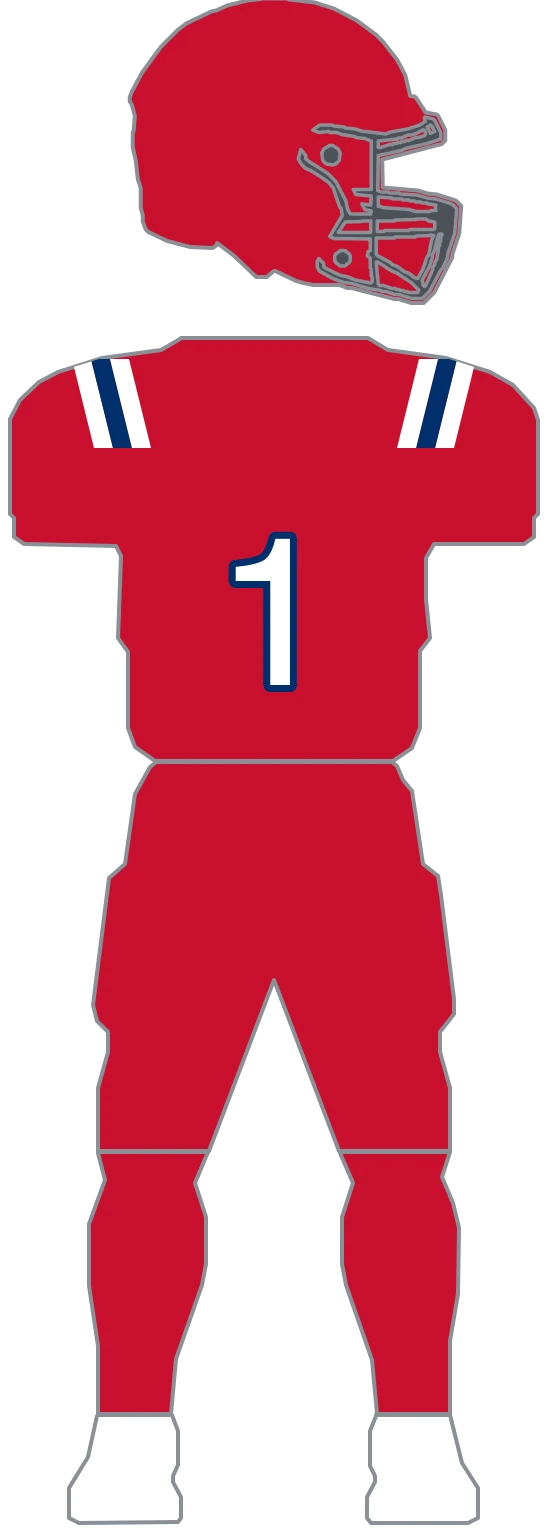
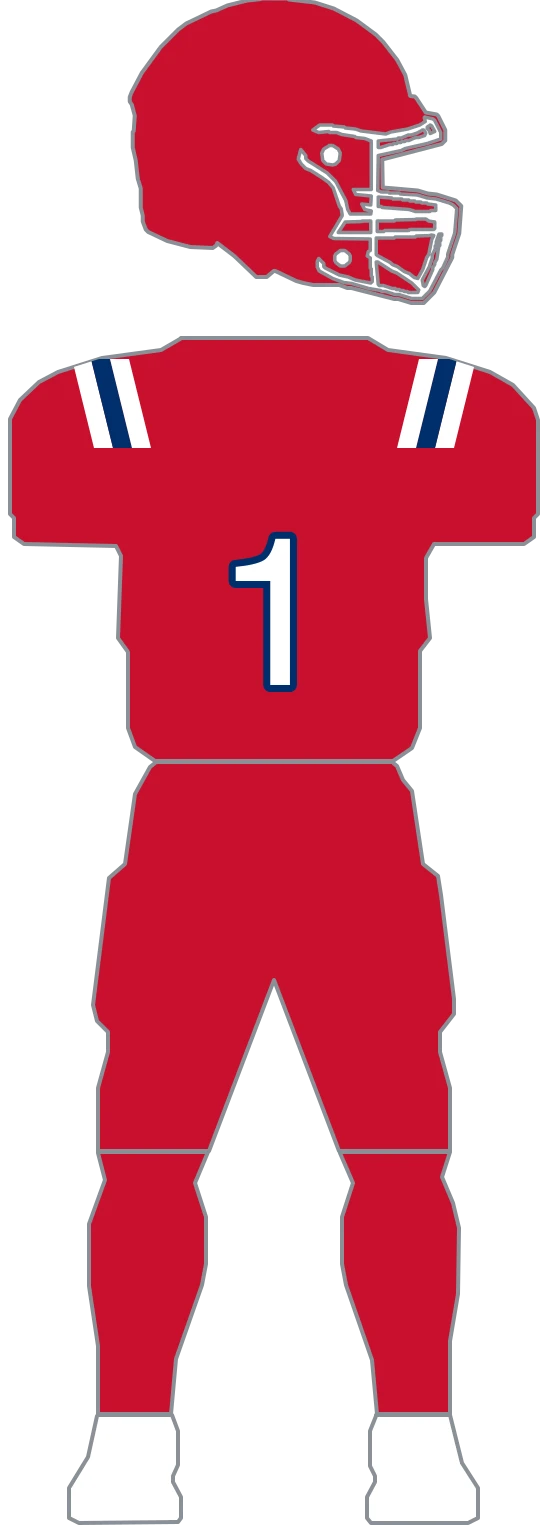
feat(uniforms): migrate Patriots to composable parts and set its facemasks (#707)
One construction throughout: three parallel bands running diagonally down each
shoulder cap, outer/inner/outer, and nothing else. Parts factor to 4 helmets /
4 jerseys / 4 pants, matching the measured target.

New England is the one team in the epic where the parts model buys no
deduplication at all, and that is the honest answer rather than a failure to
look: the band colors are not a token swap (navy body wears red/white/red,
white body red/navy/red, red body white/navy/white), the four kits carry four
different body colors, and two different navies are in play — #002244 on
home/away, #002F6C on Rivalries and Pat Patriot. What the migration does buy
is the palette: those two navies and two reds (#C60C30, #C8102E) are now named
and impossible to confuse, where the flat form left them scattered across
primary/secondary/accent.

The migration's parity gate proved all 8 patriots rasters (4 kits x 2
variants) byte-identical against the flat definition, then the flat definition
and its builder helpers were deleted and the team removed from MIGRATED, per
the one-time-proof lifecycle (depth#660).

Facemask follows the parts migration per phase order. Every silver-shell
figure on the GUD 2025 composite wears the club's signature red cage, and the
Pat Patriot shell a white one. The sheet is a GIF whose cage quantizes to
#e30003, palette noise rather than a documented color, so the red comes from
the archive's own stored club red (#C60C30). Rivalries has no figure of its
[…]

Changed region(s): [[0.5768, 0.0612, 0.8196, 0.1837], [0.5464, 0.0919, 0.6071, 0.1225], [0.7286, 0.1837, 0.7589, 0.2143]]

diff --git a/lib/uniforms/teams/patriots.parts.ts b/lib/uniforms/teams/patriots.parts.ts
@@ -1,0 +1,163 @@
+// New England authored as composable parts. Geometry is imported unchanged from patriots.ts —
+// this file only restates WHICH parts each kit combines, and names every color from the team
+// palette instead of the kit row's shifting primary/secondary/accent.
+//
+// One construction throughout: three parallel bands running diagonally down each shoulder cap,
+// outer/inner/outer, and nothing else. No collar trim, no helmet stripe, no pant stripe.
+//
+// The measured target is 4 helmet / 4 jersey / 4 pants — every kit its own parts, nothing shared,
+// and that is what this factors to. New England is the one team in the epic where the parts model
+// buys no deduplication at all, and that is the honest answer rather than a failure to look: the
+// band colors are not a token swap (navy body wears red/white/red, white body red/navy/red, red
+// body white/navy/white), the four kits carry four different body colors, and two different navies
+// are in play — #002244 on home/away and #002F6C on Rivalries and Pat Patriot. What the migration
+// does buy here is the palette: those two navies and two reds (#C60C30, #C8102E) are now named and
+// impossible to confuse, where the flat form left them scattered across primary/secondary/accent.
+//
+// Pat Patriot carries NO helmet mark — that era wore a different logo, which no figure on the
+// sheet draws.
+
+import {
+  PATRIOTS_BANDS_LEFT,
+  PATRIOTS_BANDS_RIGHT,
+  PATRIOTS_DECAL_FACE_PATH,
+  PATRIOTS_DECAL_KEYLINE_PATH,
+  PATRIOTS_DECAL_STAR_PATH,
+  PATRIOTS_DECAL_STREAMERS_PATH,
+} from './patriots';
+import { compileParts, type PartLayer, type TeamPartsDefinition, type UniformPart } from './parts';
+import type { UniformSurface } from './types';
+
+// Three bands per shoulder; the middle one takes the inner color, the outer two the outer color.
+function shoulderBands(outer: string, inner: string): PartLayer[] {
+  const out: PartLayer[] = [];
+  const sides: [UniformSurface, string[]][] = [
+    ['sleeve-left', PATRIOTS_BANDS_LEFT],
+    ['sleeve-right', PATRIOTS_BANDS_RIGHT],
+  ];
+
+  for (const [surface, paths] of sides) {
+    const side = surface === 'sleeve-left' ? 'left' : 'right';
+    paths.forEach((d, i) => {
+      out.push({
+        id: `patriots-band-${i}-${side}`,
+        surface,
+        d,
+        clip: true,
+        kind: 'fill',
+        fill: i === 1 ? inner : outer,
+      });
+    });
+  }
+
+  return out;
+}
+
+// Keyline, face, streamers, star — fixed art on every shell that carries the modern mark.
+function decal(): PartLayer[] {
+  return (
+    [
+      ['patriots-decal-keyline', PATRIOTS_DECAL_KEYLINE_PATH, 'white'],
+      ['patriots-decal-face', PATRIOTS_DECAL_FACE_PATH, 'navy'],
+      ['patriots-decal-streamers', PATRIOTS_DECAL_STREAMERS_PATH, 'red'],
+      ['patriots-decal-star', PATRIOTS_DECAL_STAR_PATH, 'white'],
+    ] as [string, string, string][]
+  ).map(([id, d, fill]) => ({
+    id,
+    surface: 'helmet' as const,
+    d,
+    clip: true,
+    kind: 'fill' as const,
+    fill,
+  }));
+}
+
+// Home shell (H1). The cage is red on every silver-shell figure of the GUD 2025 composite
+// (nfl-uniform-refs/patriots) — vividly so, and it is the club's signature facemask. The sheet is
+// a GIF and its cage quantizes to #e30003, which is palette noise rather than a documented color,
+// so this uses the archive's own stored club red (#C60C30, the home row's secondary) instead of
+// eyedropping the source.
+const HELMET_NAVY: UniformPart = { base: 'navy', facemask: 'red', layers: decal() };
+
+// Away shell (H2): silver, same mark, same red cage.
+const HELMET_SILVER: UniformPart = { base: 'silver', facemask: 'red', layers: decal() };
+
+// Pat Patriot shell (H3): the throwback red shell, and NO mark — that era wore a different logo,
+// which no figure on the sheet draws. Its white-shell figure in the boxed group wears a white cage.
+const HELMET_PAT: UniformPart = { base: 'patRed', facemask: 'white', layers: [] };
+
+// Rivalries shell (H4). The kit has no figure of its own on the sheet — the flat definition called
+// it inferred and this migration does not change that — so there is no cage to source and the
+// shell stays on GENERIC_UNIFORM_STYLE's shared neutral rather than borrowing the red one.
+const HELMET_RIVALRIES: UniformPart = { base: 'rivalNavy', layers: decal() };
+
+// Home jersey (J1): navy body, banded red/white/red, white numerals.
+const JERSEY_NAVY: UniformPart = {
+  base: 'navy',
+  layers: shoulderBands('red', 'white'),
+  number: { fill: 'white', outline: 'red', outlineWidth: 14 },
+};
+
+// Away jersey (J2): white body, banded red/navy/red — the inner band picks up the body's contrast
+// rather than staying white.
+const JERSEY_WHITE: UniformPart = {
+  base: 'white',
+  layers: shoulderBands('red', 'navy'),
+  number: { fill: 'navy', outline: 'red', outlineWidth: 14 },
+};
+
+// Pat Patriot jersey (J3): red body, banded white/navy/white against it.
+const JERSEY_PAT: UniformPart = {
+  base: 'patRed',
+  layers: shoulderBands('white', 'rivalNavy'),
+  number: { fill: 'white', outline: 'rivalNavy', outlineWidth: 14 },
+};
+
+// Rivalries jersey (J4): the home pattern against its own navy.
+const JERSEY_RIVALRIES: UniformPart = {
+  base: 'rivalNavy',
+  layers: shoulderBands('red', 'white'),
+  number: { fill: 'white', outline: 'red', outlineWidth: 14 },
+};
+
+// Pants — unbroken on every kit; each simply takes its body color.
+const PANTS_NAVY: UniformPart = { base: 'navy', layers: [] };
+const PANTS_WHITE: UniformPart = { base: 'white', layers: [] };
+const PANTS_PAT: UniformPart = { base: 'patRed', layers: [] };
+const PANTS_RIVALRIES: UniformPart = { base: 'rivalNavy', layers: [] };
+
+export const PATRIOTS_PARTS: TeamPartsDefinition = {
+  teamId: 'patriots',
+  // Jersey hexes from the curated rows (lib/uniforms/data.ts). Two navies and two reds are real
+  // and distinct: home/away use #002244 and #C60C30, Rivalries and Pat Patriot #002F6C and
+  // #C8102E. Naming them is the point — the flat form left them indistinguishable behind tokens.
+  palette: {
+    navy: '#002244',
+    rivalNavy: '#002F6C',
+    red: '#C60C30',
+    patRed: '#C8102E',
+    silver: '#B0B7BC',
+    white: '#FFFFFF',
+  },
+  helmets: {
+    navy: HELMET_NAVY,
+    silver: HELMET_SILVER,
+    pat: HELMET_PAT,
+    rivalries: HELMET_RIVALRIES,
+  },
+  jerseys: {
+    navy: JERSEY_NAVY,
+    white: JERSEY_WHITE,
+    pat: JERSEY_PAT,
+    rivalries: JERSEY_RIVALRIES,
+  },
+  pants: { navy: PANTS_NAVY, white: PANTS_WHITE, pat: PANTS_PAT, rivalries: PANTS_RIVALRIES },
+  kits: {
+    home: { helmet: 'navy', jersey: 'navy', pants: 'navy' },
+    away: { helmet: 'silver', jersey: 'white', pants: 'white' },
+    'pat-patriot': { helmet: 'pat', jersey: 'pat', pants: 'pat' },
+    'rivalries-2025': { helmet: 'rivalries', jersey: 'rivalries', pants: 'rivalries' },
+  },
+};
+
+export const PATRIOTS_UNIFORMS_FROM_PARTS = compileParts(PATRIOTS_PARTS);

diff --git a/lib/uniforms/teams/patriots.ts b/lib/uniforms/teams/patriots.ts
@@ -1,5 +1,3 @@
-import type { ColorRef, TeamUniformDefinition, UniformLayer, UniformSurface } from './types';
-
 // New England's four archived kits, redrawn from the Gridiron Uniform Database 2025 composite in
 // nfl-uniform-refs/patriots (home is that sheet's row-2 figure 3, away its row-1 figure 1, Pat
 // Patriot its row-1 figure 7 — boxed "worn in same games"). Right paths mirror the left across the
@@ -18,11 +16,11 @@ import type { ColorRef, TeamUniformDefinition, UniformLayer, UniformSurface } fr
 //
 // Out of scope on every kit: the chest wordmark, the league shield, the "WE ARE ALL PATRIOTS"
 // collar tab, the Super Bowl and USA-250 patches, the logo on each sleeve, and shoulder numerals.
-
-// White is a literal on the home kit only. Its palette is navy over red with silver in accent, so
-// nothing resolves to the middle band or the numeral face. The away carries white in `primary`, and
-// Pat Patriot and Rivalries both carry it in `accent`.
-export const PATRIOTS_WHITE = '#FFFFFF';
+//
+// Construction geometry only — the band and mark paths. The composable parts definition that
+// consumes them lives in ./patriots.parts.ts; the former flat PATRIOTS_UNIFORMS was deleted in the
+// migration that proved parts render byte-identically (see parts-parity.test.ts for the one-time
+// gate).
 
 // The shoulder bands, measured on the home figure (jersey top y=901, sleeve hem y=967, figure center
 // x=714.5, so scaleY = 191/66 and scaleX = 264/84.5). At reference y=913 the three run x650-656,
@@ -38,41 +36,6 @@ export const PATRIOTS_BANDS_RIGHT = [
   'M477,404 L458,404 L436,493 L455,493 Z',
   'M458,404 L439,404 L417,493 L436,493 Z',
 ];
-
-const GENERIC_STRIPPED = [
-  'generic-helmet-stripe',
-  'generic-sleeve-yoke-left',
-  'generic-sleeve-yoke-right',
-  'generic-sleeve-stripe-left',
-  'generic-sleeve-stripe-right',
-  'generic-collar',
-  'generic-pants-stripe-left',
-  'generic-pants-stripe-right',
-];
-
-function shoulderBands(outer: ColorRef, inner: ColorRef): UniformLayer[] {
-  const out: UniformLayer[] = [];
-  const sides: [UniformSurface, string[]][] = [
-    ['sleeve-left', PATRIOTS_BANDS_LEFT],
-    ['sleeve-right', PATRIOTS_BANDS_RIGHT],
-  ];
-
-  for (const [surface, paths] of sides) {
-    const side = surface === 'sleeve-left' ? 'left' : 'right';
-    paths.forEach((d, i) => {
-      out.push({
-        id: `patriots-band-${i}-${side}`,
-        surface,
-        d,
-        clip: true,
-        kind: 'fill',
-        fill: i === 1 ? inner : outer,
-      });
-    });
-  }
-
-  return out;
-}
 
 // Provenance: contour trace of the club's mark from the GUD composite — a reproduction
 // of a third-party mark, not original geometry. The mark is NON-FREE upstream
@@ -100,60 +63,3 @@ export const PATRIOTS_DECAL_STREAMERS_PATH =
   'M444.0,147.8 L447.4,149.1 L452.2,158.5 L448.1,164.5 L435.9,165.8 L359.8,191.2 L344.8,191.9 L324.4,197.2 L310.9,195.9 L351.6,183.2 L374.0,172.5 L381.5,171.8 L385.6,167.8 L443.3,148.5 Z M452.8,174.5 L459.0,176.5 L456.9,186.5 L418.9,196.5 L393.1,196.5 L395.1,193.9 L405.3,193.2 L452.2,175.2 Z';
 export const PATRIOTS_DECAL_STAR_PATH =
   'M580.5,161.8 L583.3,169.8 L590.7,173.2 L583.3,177.9 L587.3,188.5 L577.8,179.9 L564.9,182.5 L570.4,175.8 L565.6,167.8 L573.8,168.5 L579.9,162.5 Z';
-
-// Fixed art on every shell the club wears — navy, white, red and the Pat Patriot silver — so the
-// mark takes literals rather than tokens. Sampled off the reference figure.
-export const PATRIOTS_DECAL_NAVY = '#002244';
-export const PATRIOTS_DECAL_RED = '#C60C30';
-
-function decal(): UniformLayer[] {
-  return (
-    [
-      ['patriots-decal-keyline', PATRIOTS_DECAL_KEYLINE_PATH, PATRIOTS_WHITE],
-      ['patriots-decal-face', PATRIOTS_DECAL_FACE_PATH, PATRIOTS_DECAL_NAVY],
-      ['patriots-decal-streamers', PATRIOTS_DECAL_STREAMERS_PATH, PATRIOTS_DECAL_RED],
-      ['patriots-decal-star', PATRIOTS_DECAL_STAR_PATH, PATRIOTS_WHITE],
-    ] as [string, string, ColorRef][]
-  ).map(([id, d, fill]) => ({
-    id,
-    surface: 'helmet' as const,
-    d,
-    clip: true,
-    kind: 'fill' as const,
-    fill,
-  }));
-}
-
-export const PATRIOTS_UNIFORMS: TeamUniformDefinition = {
-  teamId: 'patriots',
-  defaults: { removeLayerIds: GENERIC_STRIPPED },
-  kits: {
-    // Navy body and shell, banded red/white/red. Red is `secondary`; white has no token in this
-    // palette, so the middle band and the numeral face both take the literal.
-    home: {
-      layers: [...shoulderBands('secondary', PATRIOTS_WHITE), ...decal()],
-      number: { fill: PATRIOTS_WHITE, outline: 'secondary', outlineWidth: 14 },
-    },
-    // White body under a silver shell, banded red/navy/red — the inner band picks up the body's
-    // contrast rather than staying white. The away palette moves white into primary, navy into
-    // secondary and red into accent, so every color here resolves from a token.
-    away: {
-      helmetColor: '#B0B7BC',
-      layers: [...shoulderBands('accent', 'secondary'), ...decal()],
-      number: { fill: 'secondary', outline: 'accent', outlineWidth: 14 },
-    },
-    // Red body, banded white/navy/white against it. Navy is `secondary` and white `accent`, so the
-    // pattern inverts from the home kit without either color needing a literal. NO HELMET MARK —
-    // this era wore the Pat Patriot logo, a different mark that no figure on the sheet draws.
-    'pat-patriot': {
-      layers: shoulderBands('accent', 'secondary'),
-      number: { fill: 'accent', outline: 'secondary', outlineWidth: 14 },
-    },
-    // INFERRED — no figure on the sheet. Takes the home pattern against its own palette, which
-    // carries white in `accent` and so needs no literal.
-    'rivalries-2025': {
-      layers: [...shoulderBands('secondary', 'accent'), ...decal()],
-      number: { fill: 'accent', outline: 'secondary', outlineWidth: 14 },
-    },
-  },
-};

diff --git a/lib/uniforms/teams/index.ts b/lib/uniforms/teams/index.ts
@@ -21,7 +21,7 @@ import { LIONS_UNIFORMS_FROM_PARTS } from './lions.parts';
 import { NINERS_UNIFORMS_FROM_PARTS } from './niners.parts';
 import { PACKERS_UNIFORMS_FROM_PARTS } from './packers.parts';
 import { PANTHERS_UNIFORMS_FROM_PARTS } from './panthers.parts';
-import { PATRIOTS_UNIFORMS } from './patriots';
+import { PATRIOTS_UNIFORMS_FROM_PARTS } from './patriots.parts';
 import { RAIDERS_UNIFORMS_FROM_PARTS } from './raiders.parts';
 import { RAMS_UNIFORMS } from './rams';
 import { RAVENS_UNIFORMS_FROM_PARTS } from './ravens.parts';
@@ -60,7 +60,7 @@ const DEFINITIONS: Readonly<Partial<Record<string, TeamUniformDefinition>>> = {
   lions: LIONS_UNIFORMS_FROM_PARTS,
   packers: PACKERS_UNIFORMS_FROM_PARTS,
   panthers: PANTHERS_UNIFORMS_FROM_PARTS,
-  patriots: PATRIOTS_UNIFORMS,
+  patriots: PATRIOTS_UNIFORMS_FROM_PARTS,
   raiders: RAIDERS_UNIFORMS_FROM_PARTS,
   rams: RAMS_UNIFORMS,
   ravens: RAVENS_UNIFORMS_FROM_PARTS,
